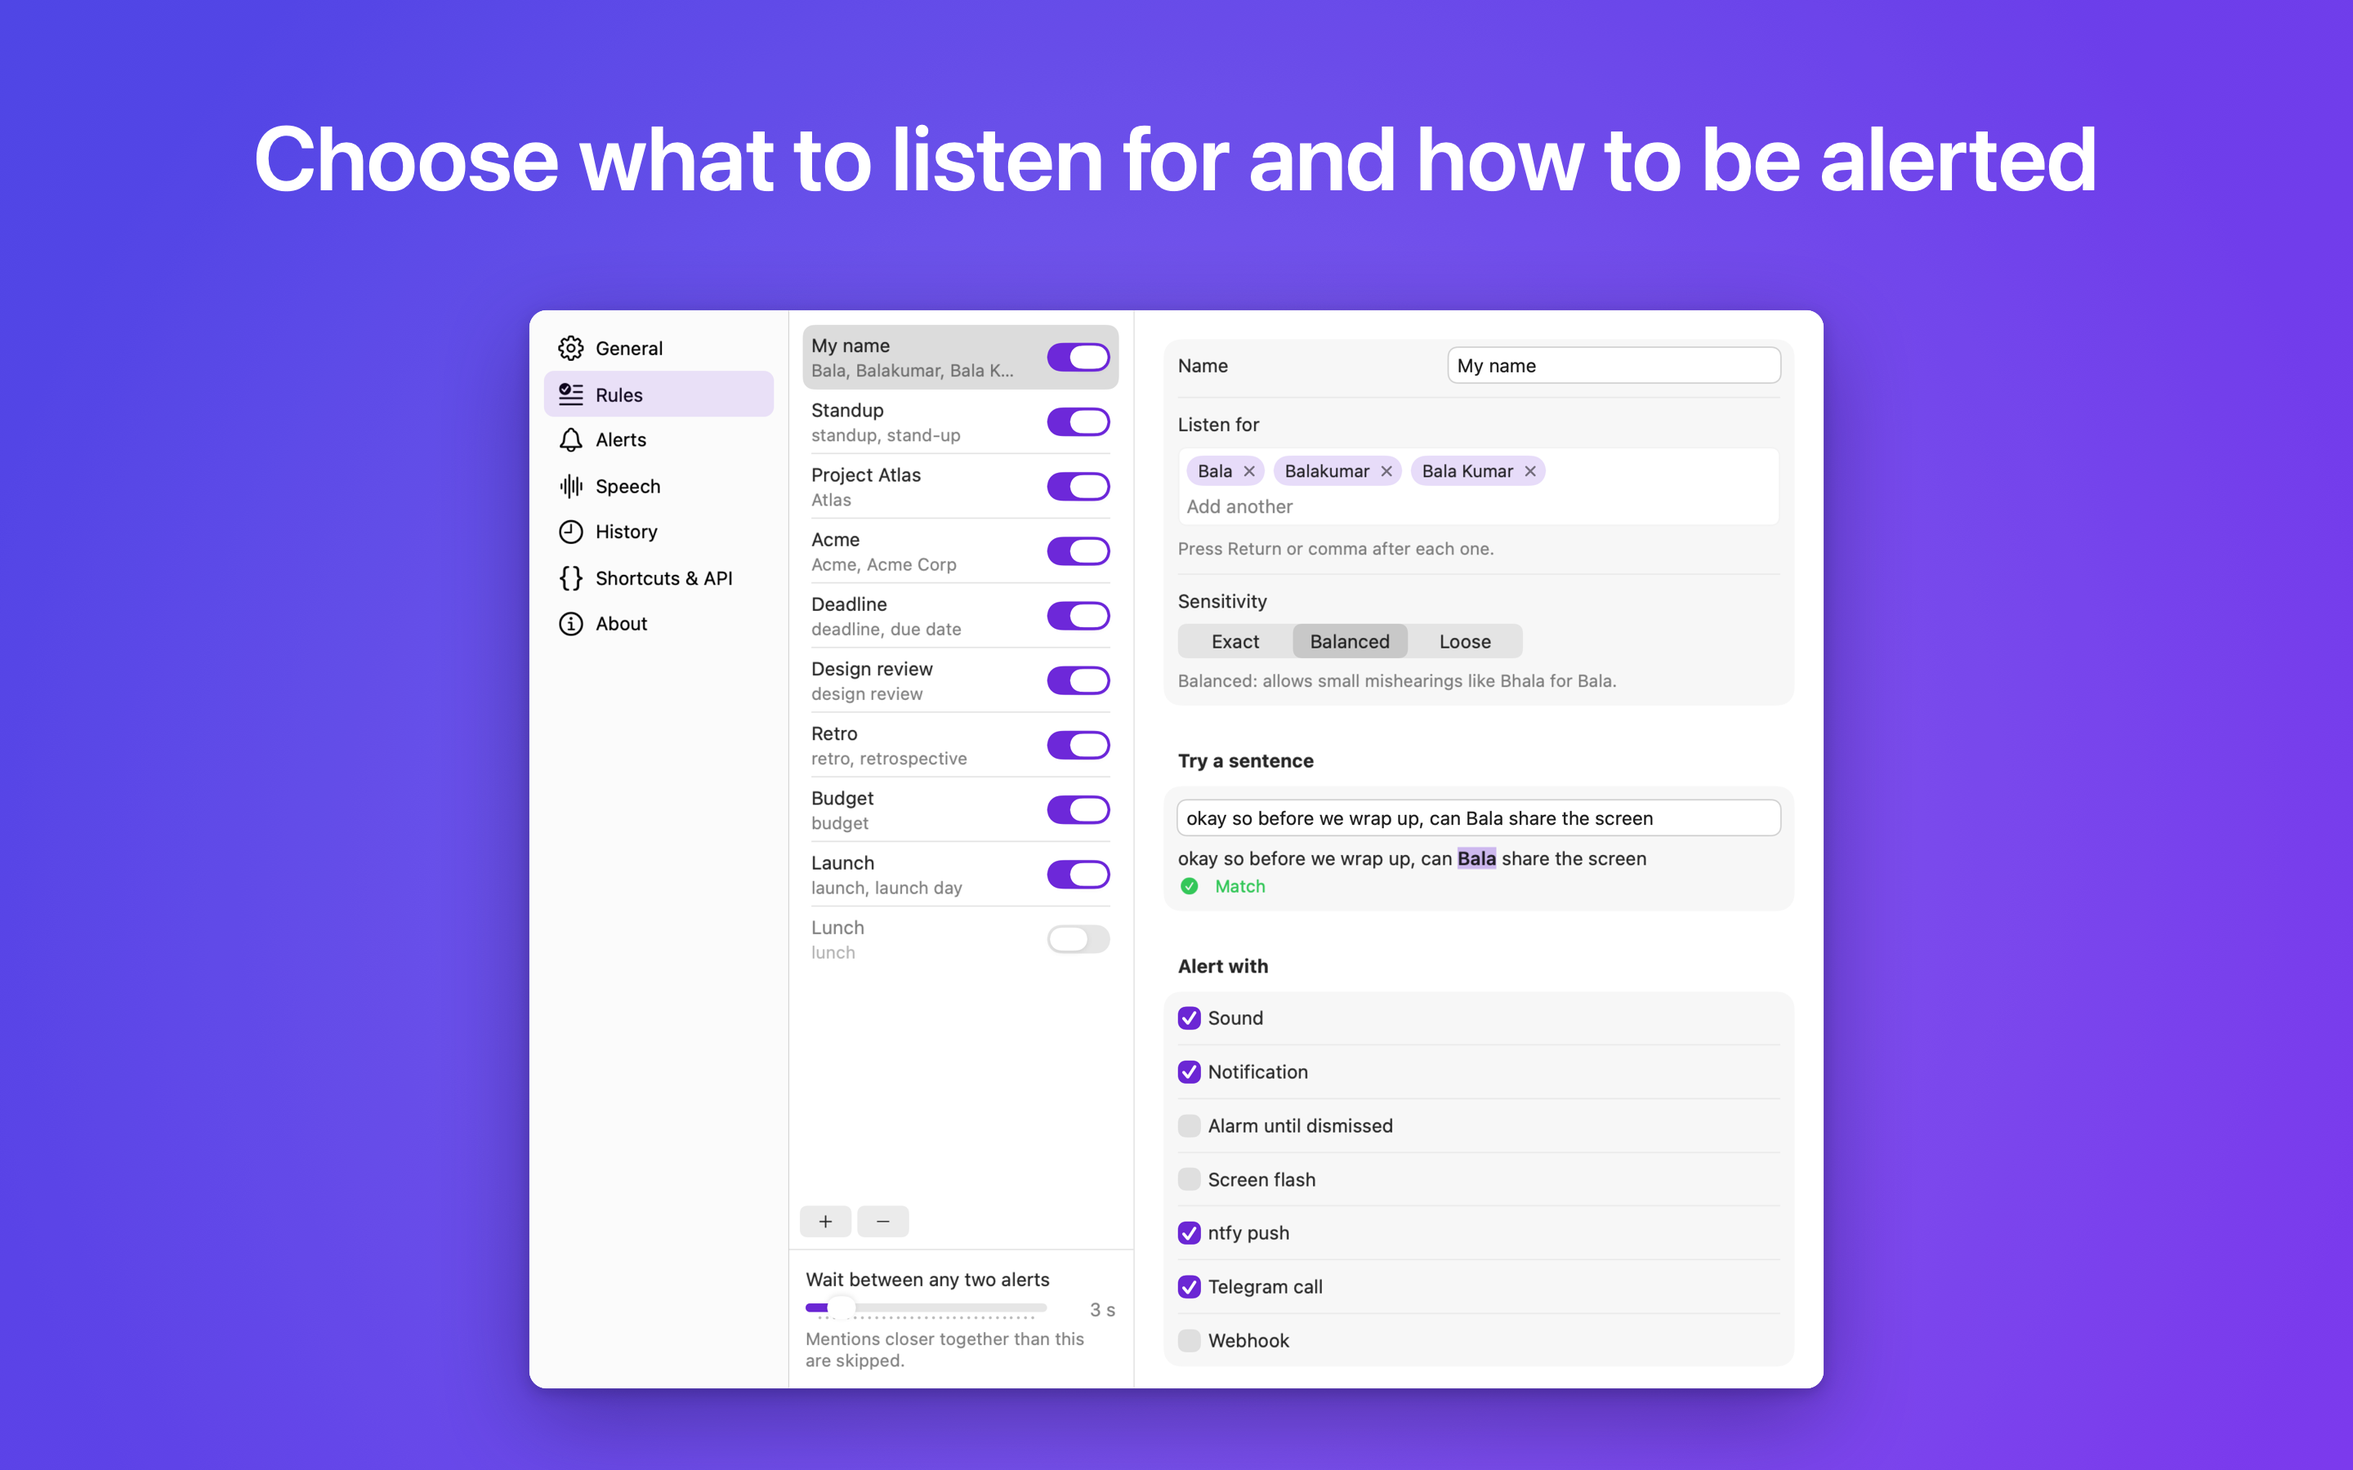
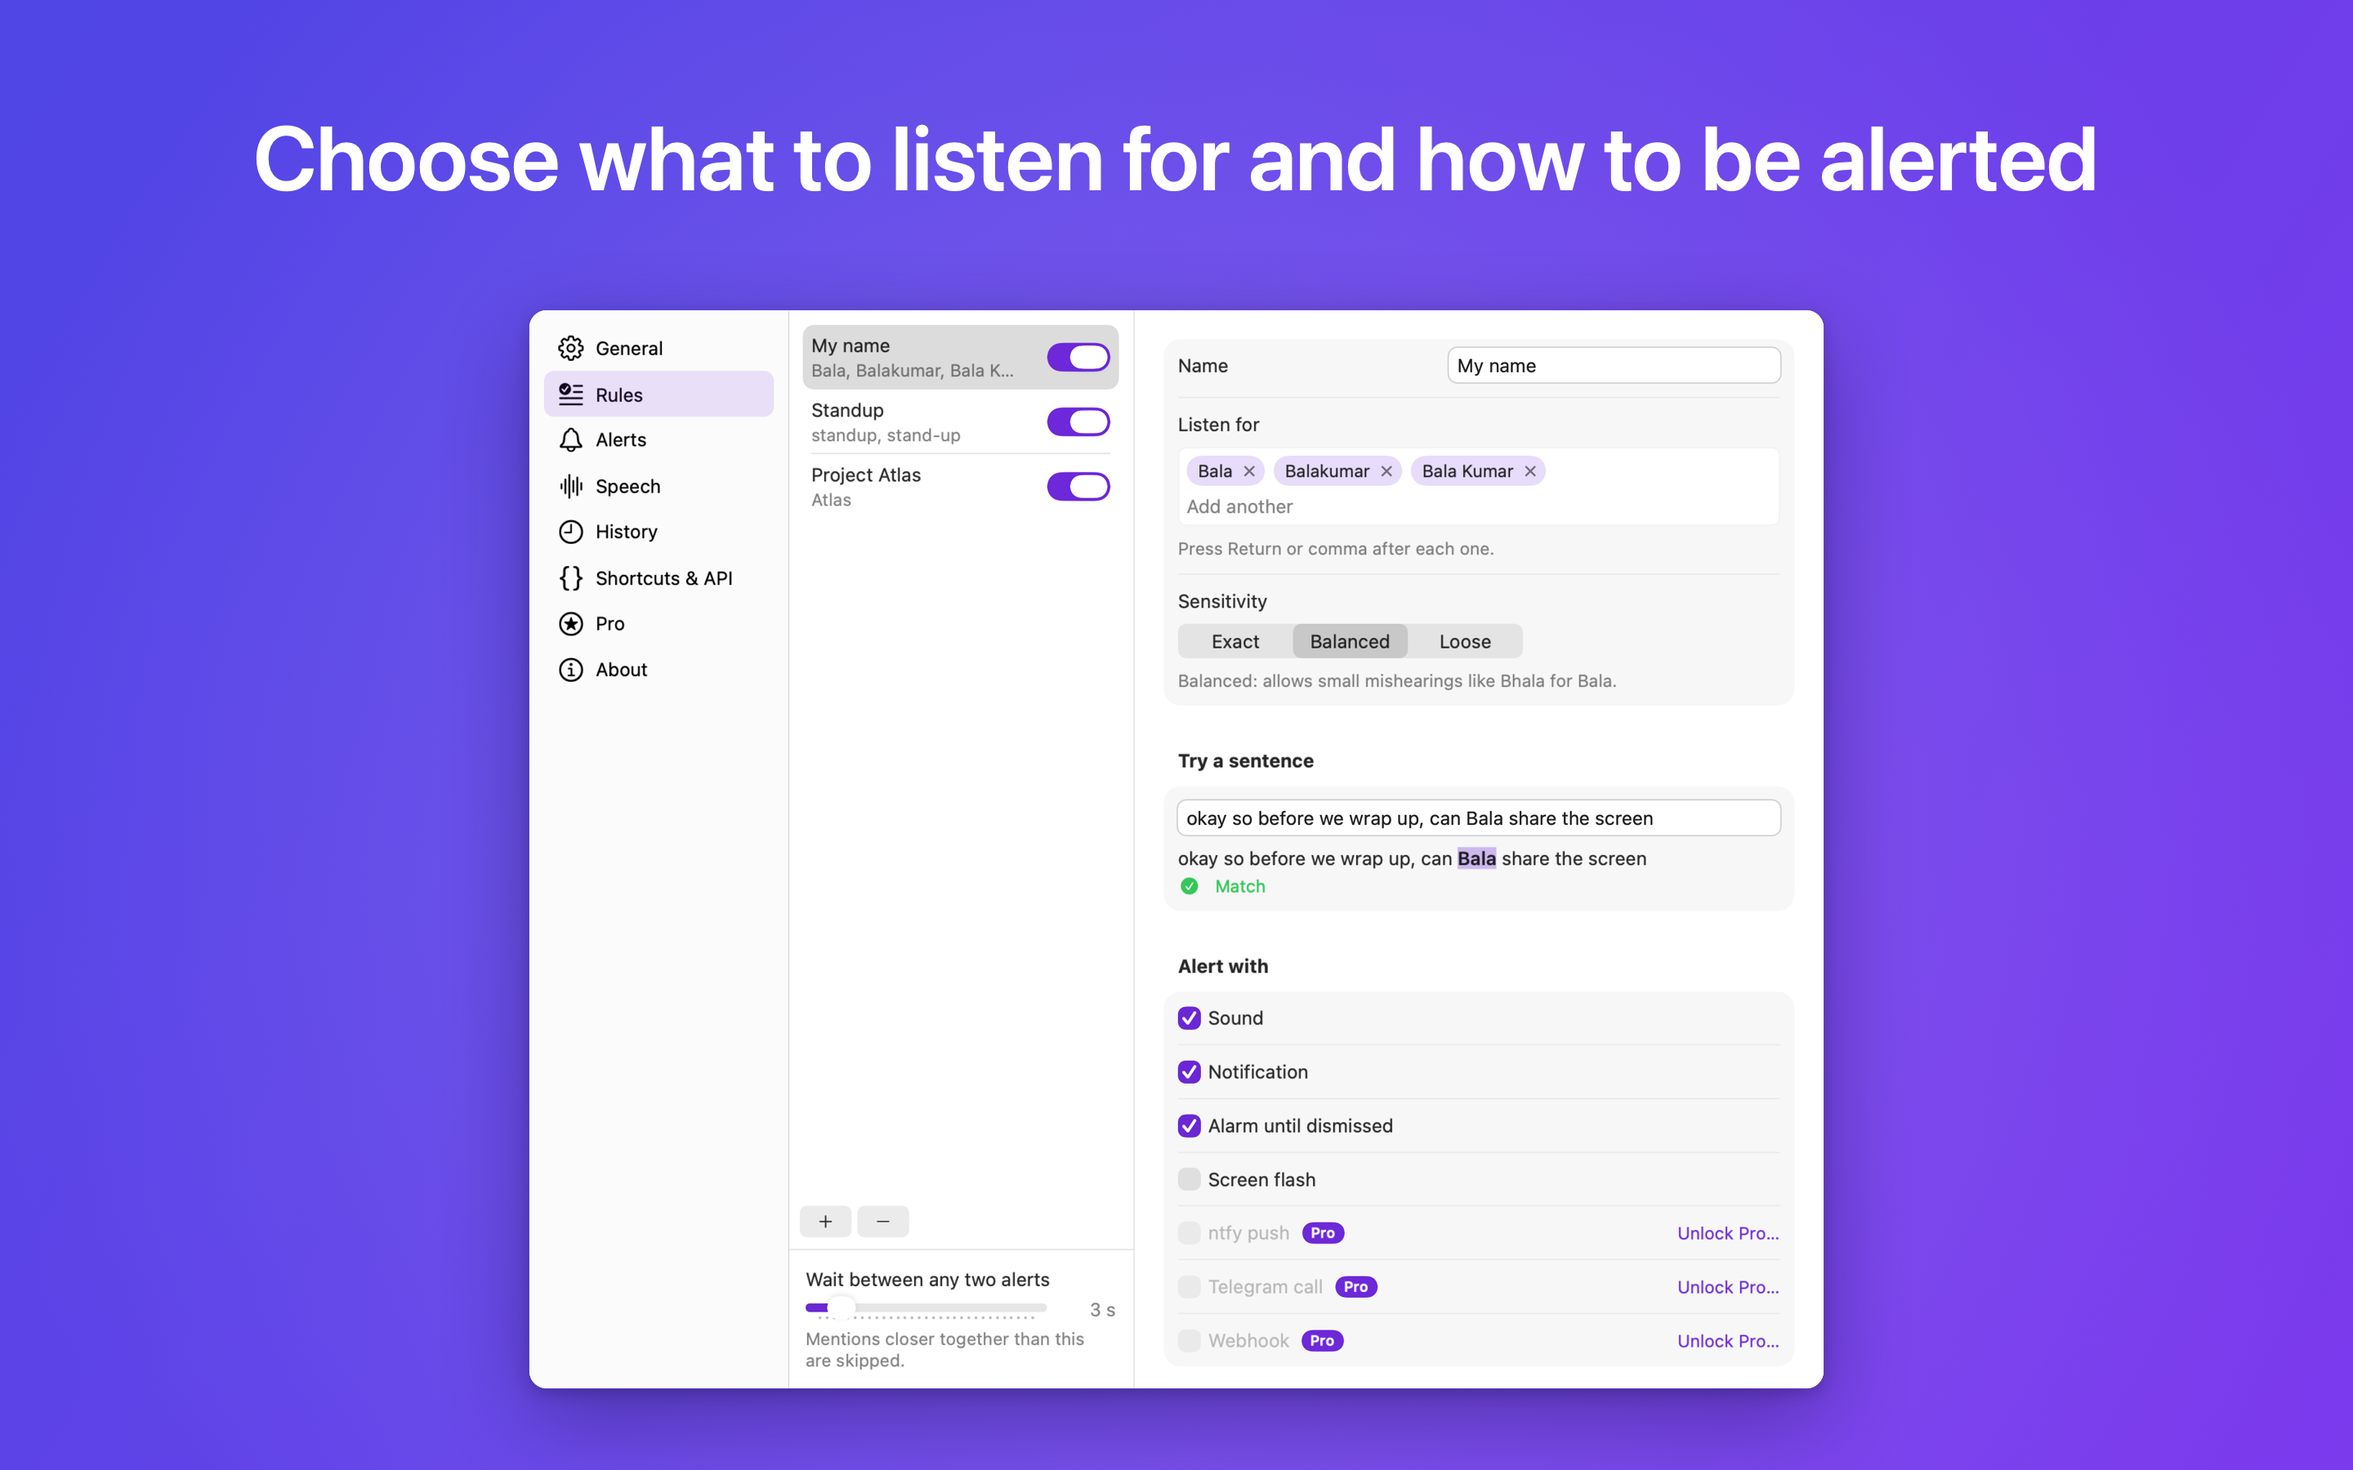
feat(store): screenshots that mark Pro, a Pro screenshot, and the purchase's review screenshot
- guideline 2.3.2 wants the screenshots to show what needs a purchase: 02
  now shows a new customer's Rules (three rules, the phone alerts marked
  Pro), 03's headline names only the alerts on the Mac, 04 is setup on
  Free, and a new 06 shows Settings → Pro as an owner sees it. No
  screenshot shows a price, and the Settings shots list Pro in the sidebar
  as the App Store build does
- the App Review screenshot of the purchase, appstore/review-screenshots/
  dev.balakumar.namealert.pro.png: Settings → Pro for a new customer with
  the product and price from Pro.storekit through StoreKit testing, on
  plain grey, 2880 x 1800. scripts/render_screenshots.sh --review renders
  it; it stays out of appstore/screenshots, which appstore.yml uploads
- render_screenshots.sh and verify.sh expect six store screenshots

diff --git a/NameAlertScreenshots/AppStoreScreenshotTests.swift b/NameAlertScreenshots/AppStoreScreenshotTests.swift
@@ -42,16 +42,17 @@ struct ScreenshotSpec: Sendable {
 
     static let menuBar = ScreenshotSpec(name: "01-menu-bar", headline: "Know the moment someone says your name")
     static let rules = ScreenshotSpec(name: "02-rules", headline: "Choose what to listen for and how to be alerted")
-    static let alerts = ScreenshotSpec(name: "03-alerts", headline: "Sound, notification, alarm, push, call or webhook")
+    static let alerts = ScreenshotSpec(name: "03-alerts", headline: "Sound, notification, alarm or screen flash")
     static let onboarding = ScreenshotSpec(name: "04-onboarding", headline: "Set up in a minute")
     static let live = ScreenshotSpec(name: "05-live", headline: "Your audio never leaves your Mac")
+    static let pro = ScreenshotSpec(name: "06-pro", headline: "Pro: unlimited rules and alerts to your phone")
 
-    static let all: [ScreenshotSpec] = [menuBar, rules, alerts, onboarding, live]
+    static let all: [ScreenshotSpec] = [menuBar, rules, alerts, onboarding, live, pro]
 }
 
-// MARK: - The five screenshots
+// MARK: - The six screenshots
 
-/// Renders the five Mac App Store screenshots (2880 × 1800, RGB, no alpha) from the app's real views on demo data and
+/// Renders the six Mac App Store screenshots (2880 × 1800, RGB, no alpha) from the app's real views on demo data and
 /// writes them to `appstore/screenshots/`. Run it with `scripts/render_screenshots.sh`.
 @Suite("App Store screenshots", .serialized, .enabled(if: ScreenshotEnvironment.isRequested))
 @MainActor
@@ -79,6 +80,11 @@ struct AppStoreScreenshotTests {
     @Test("05 The live transcript")
     func live() async throws {
         try await produce(.live) { try await ScreenshotPictures.liveTranscript() }
+    }
+
+    @Test("06 Settings → Pro, owned")
+    func pro() async throws {
+        try await produce(.pro) { try await ScreenshotPictures.pro() }
     }
 
     private func produce(_ spec: ScreenshotSpec, picture: () async throws -> ScreenshotPicture) async throws {
@@ -135,29 +141,38 @@ enum ScreenshotPictures {
         ]
     }
 
-    /// Settings → Rules: ten rules, the first open, a sentence tried, and every way to be alerted ready to choose.
+    /// A store that sells Pro and shows `status`, for the Settings shots: the sidebar lists Pro as it does in the App
+    /// Store build. Nothing is read or bought.
+    private static func store(_ status: ProStore.Status) -> ProStore {
+        let store = ProStore(isEnforced: true, cache: nil)
+        store.present(status: status)
+        return store
+    }
+
+    /// Settings → Pro as an owner sees it: what Pro adds and that it is on. No price (store screenshots show none).
+    static func pro() async throws -> ScreenshotPicture {
+        let controller = DemoFixtures.controller(.off, configuration: DemoFixtures.settingsConfiguration)
+        return try await settings(
+            .pro, size: CGSize(width: 900, height: 540), controller: controller, store: store(.pro), seed: nil)
+    }
+
+    /// Settings → Rules as a new customer has it: the three rules Free alerts with, the first open with a sentence tried,
+    /// and the alerts that need Pro marked.
     static func rules() async throws -> ScreenshotPicture {
         var configuration = DemoFixtures.settingsConfiguration
         configuration.rules = [
             Rule(
                 name: "My name", terms: ["Bala", "Balakumar", "Bala Kumar"], sensitivity: .balanced,
-                channels: [.sound, .notification, .ntfy, .telegramCall], cooldownSeconds: 10),
+                channels: [.sound, .notification, .persistentAlarm], cooldownSeconds: 10),
             Rule(
                 name: "Standup", terms: ["standup", "stand-up"], sensitivity: .exact, channels: [.sound, .persistentAlarm],
                 cooldownSeconds: 45),
-            Rule(name: "Project Atlas", terms: ["Atlas"], channels: [.notification], cooldownSeconds: 120),
-            Rule(name: "Acme", terms: ["Acme", "Acme Corp"], channels: [.sound, .notification]),
-            Rule(name: "Deadline", terms: ["deadline", "due date"], channels: [.notification, .screenFlash]),
-            Rule(name: "Design review", terms: ["design review"], channels: [.notification], cooldownSeconds: 60),
-            Rule(name: "Retro", terms: ["retro", "retrospective"], channels: [.notification]),
-            Rule(name: "Budget", terms: ["budget"], channels: [.sound, .notification]),
-            Rule(name: "Launch", terms: ["launch", "launch day"], channels: [.notification, .ntfy]),
-            Rule(name: "Lunch", terms: ["lunch"], channels: [.notification], isEnabled: false),
+            Rule(name: "Project Atlas", terms: ["Atlas"], channels: [.notification, .screenFlash], cooldownSeconds: 120),
         ]
         configureAlertChannels(&configuration)
-        let controller = DemoFixtures.controller(.off, configuration: configuration)
+        let controller = DemoFixtures.controller(.off, configuration: configuration, proAccess: .free)
         return try await settings(
-            .rules, size: CGSize(width: 900, height: 750), controller: controller,
+            .rules, size: CGSize(width: 900, height: 750), controller: controller, store: store(.free),
             seed: "okay so before we wrap up, can Bala share the screen")
     }
 
@@ -170,7 +185,8 @@ enum ScreenshotPictures {
         // above the Screen flash heading, so no row is cut in half: Sound, Notification and Alarm, the first three of the
         // headline, as large as the canvas allows.
         return try await settings(
-            .alerts, size: CGSize(width: 900, height: 540), visibleHeight: 522, controller: controller, seed: nil)
+            .alerts, size: CGSize(width: 900, height: 540), visibleHeight: 522, controller: controller, store: store(.free),
+            seed: nil)
     }
 
     private static func configureAlertChannels(_ configuration: inout AppConfiguration) {
@@ -182,9 +198,9 @@ enum ScreenshotPictures {
     /// The Settings window with `section` open, `size` points of it, or only the top `visibleHeight` points when that is
     /// given. The offscreen renderer draws the selected sidebar row as a black rectangle, so that row is painted over
     /// with the row as it looks unselected, under a tint of the accent color.
-    private static func settings(
+    static func settings(
         _ section: SettingsSection, size: CGSize, visibleHeight: CGFloat? = nil, controller: ListeningController,
-        seed: String?
+        store: ProStore, seed: String?
     ) async throws -> ScreenshotPicture {
         let scale: CGFloat = 3
         // Nothing here reads the real Keychain, and no secret is shown as saved.
@@ -195,6 +211,7 @@ enum ScreenshotPictures {
                 .environment(controller)
                 .environment(secrets)
                 .environment(WindowRouter())
+                .environment(store)
                 .environment(\.matchTesterSeed, seed ?? "")
                 .environment(\.controlActiveState, .key)
                 .background(Color(nsColor: .windowBackgroundColor))
@@ -229,7 +246,7 @@ enum ScreenshotPictures {
         let model = OnboardingModel(configuration: fresh, step: .name)
         model.name = "Bala"
         model.variants = ["Balakumar", "Bala Kumar"]
-        let controller = DemoFixtures.controller(.off, configuration: fresh)
+        let controller = DemoFixtures.controller(.off, configuration: fresh, proAccess: .free)
         let view = OnboardingView(presetModel: model)
             .environment(controller)
             .environment(WindowRouter())
@@ -713,16 +730,19 @@ struct AppStoreScreenshotLogicTests {
         context.fillPath()
     }
 
-    @Test("The five screenshots have the file names and headlines of the store listing")
+    @Test("The six screenshots have the file names and headlines of the store listing")
     func specs() {
-        #expect(ScreenshotSpec.all.map(\.name) == ["01-menu-bar", "02-rules", "03-alerts", "04-onboarding", "05-live"])
+        #expect(ScreenshotSpec.all.map(\.name) == [
+            "01-menu-bar", "02-rules", "03-alerts", "04-onboarding", "05-live", "06-pro",
+        ])
         #expect(
             ScreenshotSpec.all.map(\.headline) == [
                 "Know the moment someone says your name",
                 "Choose what to listen for and how to be alerted",
-                "Sound, notification, alarm, push, call or webhook",
+                "Sound, notification, alarm or screen flash",
                 "Set up in a minute",
                 "Your audio never leaves your Mac",
+                "Pro: unlimited rules and alerts to your phone",
             ])
     }
 

diff --git a/NameAlertScreenshots/ReviewScreenshotTests.swift b/NameAlertScreenshots/ReviewScreenshotTests.swift
@@ -1,0 +1,73 @@
+import AppKit
+import CoreGraphics
+import Foundation
+import NameAlertCore
+import NameAlertRuntime
+import StoreKit
+import StoreKitTest
+import SwiftUI
+import Testing
+
+@testable import ScreenshotHost
+
+/// The App Review screenshot of the Pro purchase. It is written only when `scripts/render_screenshots.sh --review` asks
+/// (`NAMEALERT_RENDER_REVIEW_SCREENSHOT=1`): Settings → Pro as a new customer sees it, the product and its price from
+/// `Pro.storekit` through StoreKit testing, centred on plain grey, 2880 × 1800, no caption.
+@Suite(
+    "App Review screenshot", .serialized,
+    .enabled(if: ProcessInfo.processInfo.environment["NAMEALERT_RENDER_REVIEW_SCREENSHOT"] == "1"))
+@MainActor
+struct ReviewScreenshotTests {
+    @Test("The Pro purchase, for its App Review screenshot")
+    func pro() async throws {
+        let session = try SKTestSession(contentsOf: RenderHarness.repositoryRoot.appendingPathComponent("Pro.storekit"))
+        session.resetToDefaultState()
+        session.disableDialogs = true
+        session.clearTransactions()
+        let suite = "dev.balakumar.namealert.tests.\(UUID().uuidString)"
+        let defaults = try #require(UserDefaults(suiteName: suite))
+        defer { defaults.removePersistentDomain(forName: suite) }
+        let store = ProStore(isEnforced: true, cache: ProAccessCache(defaults: defaults))
+        store.start { _ in }
+        defer { store.stop() }
+        #expect(await pollUntil(timeout: .seconds(15)) { store.productState == .loaded && store.status == .free })
+        let controller = DemoFixtures.controller(.off, configuration: DemoFixtures.settingsConfiguration, proAccess: .free)
+        let picture = try await ScreenshotPictures.settings(
+            .pro, size: CGSize(width: 760, height: 540), controller: controller, store: store, seed: nil)
+        let url = try ScreenshotComposer.writePNG(
+            try ReviewScreenshot.compose(picture), name: ProProduct.id, in: ReviewScreenshot.outputDirectory)
+        print("[screenshots] wrote \(url.path)")
+    }
+}
+
+/// How the App Review screenshot is put together.
+enum ReviewScreenshot {
+    static let canvas = CGSize(width: 2880, height: 1800)
+
+    /// `NAMEALERT_SCREENSHOTS_OUT`, else `appstore/review-screenshots` in the repository.
+    @MainActor static var outputDirectory: URL {
+        if let path = ProcessInfo.processInfo.environment["NAMEALERT_SCREENSHOTS_OUT"], !path.isEmpty {
+            return URL(fileURLWithPath: path, isDirectory: true)
+        }
+        return RenderHarness.repositoryRoot.appendingPathComponent("appstore/review-screenshots", isDirectory: true)
+    }
+
+    /// The window at the size it was captured (smaller if it would not fit with a margin), centred on plain grey.
+    static func compose(_ picture: ScreenshotPicture) throws -> CGImage {
+        guard let srgb = CGColorSpace(name: CGColorSpace.sRGB),
+            let context = CGContext(
+                data: nil, width: Int(canvas.width), height: Int(canvas.height), bitsPerComponent: 8, bytesPerRow: 0,
+                space: srgb, bitmapInfo: CGImageAlphaInfo.noneSkipLast.rawValue)
+        else { throw RenderHarness.RenderError.noBitmap("review screenshot") }
+        context.setFillColor(CGColor(srgbRed: 0xD1 / 255, green: 0xD1 / 255, blue: 0xD6 / 255, alpha: 1))
+        context.fill(CGRect(origin: .zero, size: canvas))
+        let width = CGFloat(picture.image.width), height = CGFloat(picture.image.height)
+        let scale = min(1, (canvas.width - 160) / width, (canvas.height - 160) / height)
+        let size = CGSize(width: width * scale, height: height * scale)
+        let origin = CGPoint(x: (canvas.width - size.width) / 2, y: (canvas.height - size.height) / 2)
+        context.interpolationQuality = .high
+        context.draw(picture.image, in: CGRect(origin: origin, size: size))
+        guard let image = context.makeImage() else { throw RenderHarness.RenderError.noBitmap("review screenshot") }
+        return image
+    }
+}
